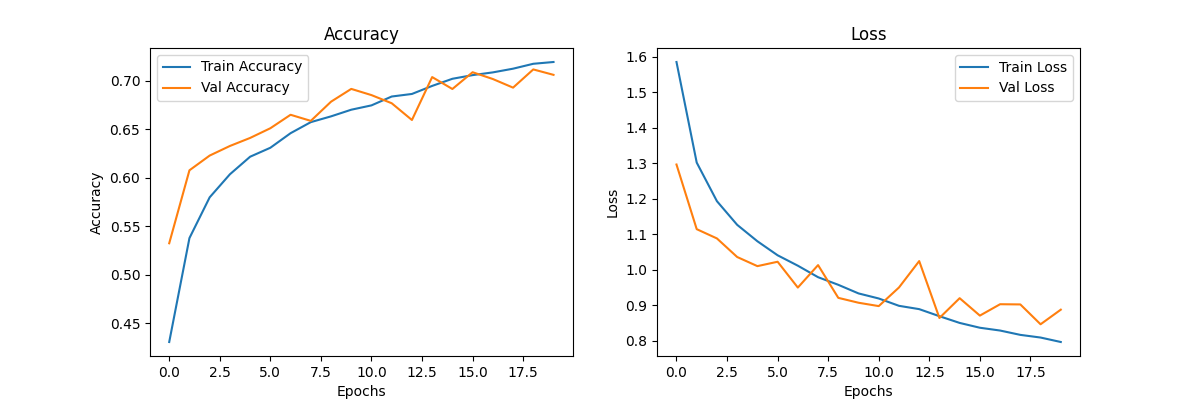
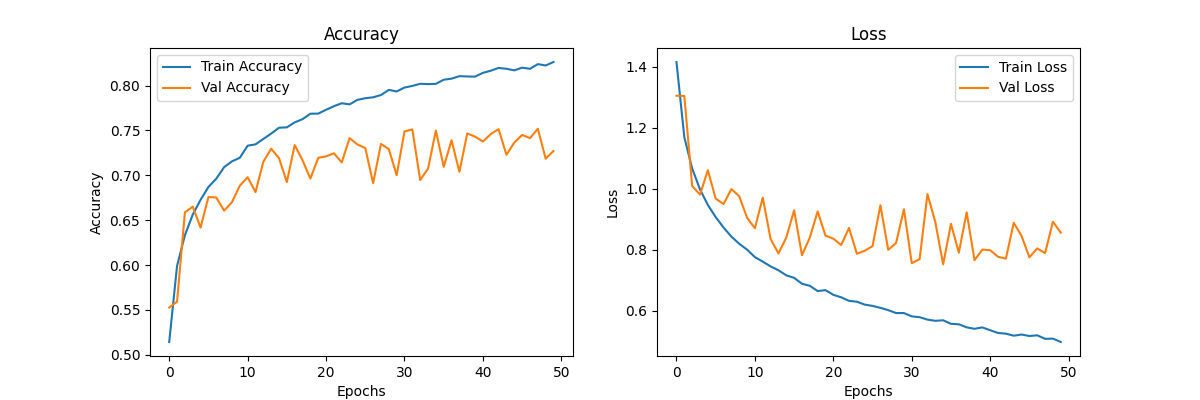
added optimisation for SGD and RMSprop with learning rate warm-up and early-stopping

diff --git a/include/CNNBuilder.py b/include/CNNBuilder.py
@@ -1,6 +1,4 @@
-
-from tensorflow.keras import layers, models, optimizers, callbacks # type: ignore
-
+from tensorflow.keras import layers, models, optimizers, callbacks  # type: ignore
 from include.Logger import Logger
 
 class CNNBuilder:
@@ -10,22 +8,19 @@ class CNNBuilder:
         self.logger = Logger(__name__)
 
     def add_conv_layer(self, filters, kernel_size, activation="relu", padding="same", kernel_reguliser=None):
-        self.model.add(layers.Conv2D(filters, kernel_size, activation=activation, padding=padding, kernel_regularizer=kernel_reguliser))
+        self.model.add(layers.Conv2D(filters, kernel_size, padding=padding, kernel_regularizer=kernel_reguliser, kernel_initializer="he_normal"))
+        self.model.add(layers.BatchNormalization())     # BatchNorm before activation
+        self.model.add(layers.Activation(activation))   # Separate activation
         return self
-    
+
     def add_pooling_layer(self, pool_size=(2, 2), strides=None, pool_type="max"):
         if pool_type == "max":
             self.model.add(layers.MaxPooling2D(pool_size=pool_size, strides=strides))
         elif pool_type == "avg":
             self.model.add(layers.AveragePooling2D(pool_size=pool_size, strides=strides))
         else:
-            self.logger.error("Unrecognised pool type")
+            self.logger.error("Unrecognized pool type")
             exit(-1)
-
-        return self
-    
-    def add_batch_norm(self):
-        self.model.add(layers.BatchNormalization())
         return self
 
     def add_dropout(self, rate):
@@ -37,34 +32,62 @@ class CNNBuilder:
         return self
 
     def add_dense_layer(self, units, activation='relu'):
-        self.model.add(layers.Dense(units, activation=activation))
+        self.model.add(layers.Dense(units, kernel_initializer="he_normal"))     # He initialization
+        self.model.add(layers.BatchNormalization())                             # BatchNorm before activation
+        self.model.add(layers.Activation(activation))                           # Separate activation
         return self
-    
+
     def add_data_augmentation(self, augmentation):
         self.model.add(augmentation)
         return self
-    
-    def compile_model(self, optimiser="adam", learning_rate=0.001, decay_factor=0.95, loss="categorical_crossentropy", metrics=['accuracy']):
+
+    def compile_model(self, optimiser="adam", learning_rate=0.001, decay_factor=0.95, loss="categorical_crossentropy", metrics=['accuracy'], use_lr_warmup=False, use_early_stopping=False):
         if isinstance(optimiser, str):
             if optimiser == "adam":
-                optimiser = optimizers.Adam(learning_rate=learning_rate)
+                optimiser = optimizers.AdamW(learning_rate=learning_rate)               # Switched to AdamW
             elif optimiser == "sgd":
-                optimiser = optimizers.SGD(learning_rate=learning_rate, momentum=0.9)
+                optimiser = optimizers.SGD(learning_rate=learning_rate, momentum=0.95)  # Increased momentum
             elif optimiser == "rmsprop":
-                optimiser = optimizers.RMSprop(learning_rate=learning_rate)
+                optimiser = optimizers.RMSprop(learning_rate=learning_rate, rho=0.98)   # Adjusted decay factor
             else:
                 self.logger.error("Failed to compile model")
+                exit(-1)
 
         # Compile the model
         self.model.compile(optimizer=optimiser, loss=loss, metrics=metrics)
-        self.lr_scheduler = callbacks.LearningRateScheduler(lambda epoch: learning_rate * decay_factor ** epoch)
+
+        # Adaptive learning rate scheduler based on optimizer type
+        if isinstance(optimiser, (optimizers.AdamW, optimizers.RMSprop)):
+            decay_factor = 0.98                                                     # AdamW & RMSprop benefit from a slightly higher decay
+        elif isinstance(optimiser, optimizers.SGD):
+            decay_factor = 0.90                                                     # Faster decay for SGD to adapt quickly
+
+        self.lr_scheduler = callbacks.LearningRateScheduler(lambda epoch: learning_rate * (decay_factor ** epoch))
+
+        # Learning Rate Warm-up
+        self.lr_warmup = None
+        if use_lr_warmup:
+            def lr_schedule(epoch, lr):
+                if epoch < 5:                                                       # Warm-up for first 5 epochs
+                    return lr * (epoch + 1) / 5
+                return lr
+            self.lr_warmup = callbacks.LearningRateScheduler(lr_schedule)
+
+        # Early Stopping
+        self.early_stopping = None
+        if use_early_stopping:
+            self.early_stopping = callbacks.EarlyStopping(monitor="val_loss", patience=5, restore_best_weights=True)
+
+        # Get all callbacks
         self.callbacks_list = self.get_callbacks()
         return self
-    
+
     def get_callbacks(self):
-        callbacks_list = []
-        if self.lr_scheduler:
-            callbacks_list.append(self.lr_scheduler)
+        callbacks_list = [self.lr_scheduler]
+        if self.lr_warmup:
+            callbacks_list.append(self.lr_warmup)
+        if self.early_stopping:
+            callbacks_list.append(self.early_stopping)
         return callbacks_list
 
     def build(self):

diff --git a/include/TensorModel.py b/include/TensorModel.py
@@ -60,17 +60,14 @@ class TensorModel:
             model = (builder
                     .add_data_augmentation(data_augmentation)
                     .add_conv_layer(32, (3,3))
-                    .add_batch_norm()
                     .add_pooling_layer()
                     .add_conv_layer(64, (3, 3))
-                    .add_batch_norm()
                     .add_pooling_layer()
                     .add_flaten_layer()
                     .add_dense_layer(128, activation="relu")
-                    .add_batch_norm()
                     .add_dropout(0.5)
                     .add_dense_layer(10, activation="softmax")
-                    .compile_model(optimiser=optimiser, learning_rate=learning_rate, decay_factor=decay_factor)
+                    .compile_model(optimiser=optimiser, learning_rate=learning_rate, decay_factor=decay_factor, use_lr_warmup=True, use_early_stopping=True)
                     .build()
                     )
         else:   

diff --git a/main.py b/main.py
@@ -2,7 +2,7 @@ from include.Logger import Logger
 from include.Visualiser import Visualiser
 from include.TensorModel import TensorModel
 
-NUM_EPOCHS = 20
+NUM_EPOCHS = 50
 
 def create_predicition_matrix(model_handler: TensorModel, visualiser: Visualiser, model, x_test, y_test, str_model):
     conf_matrix = model_handler.compute_confusion_matrix(model, x_test, y_test)
